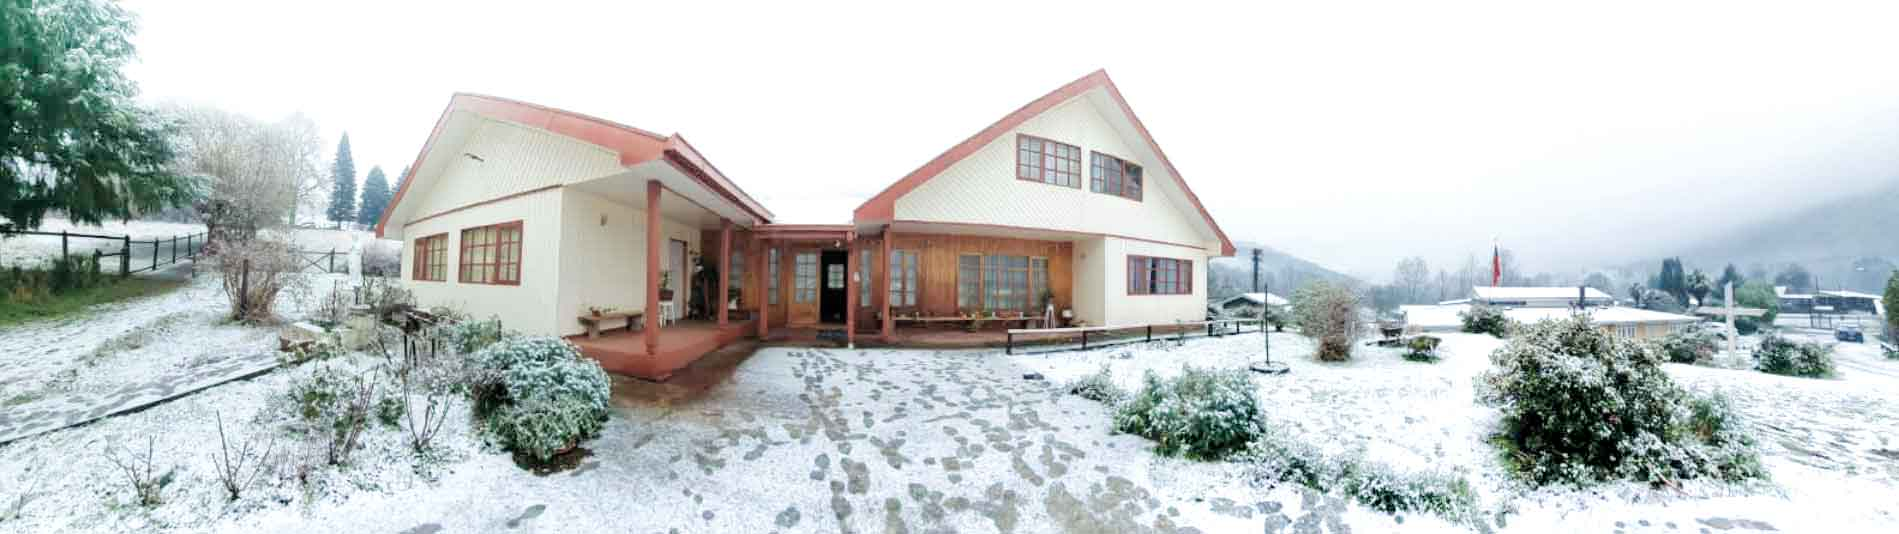
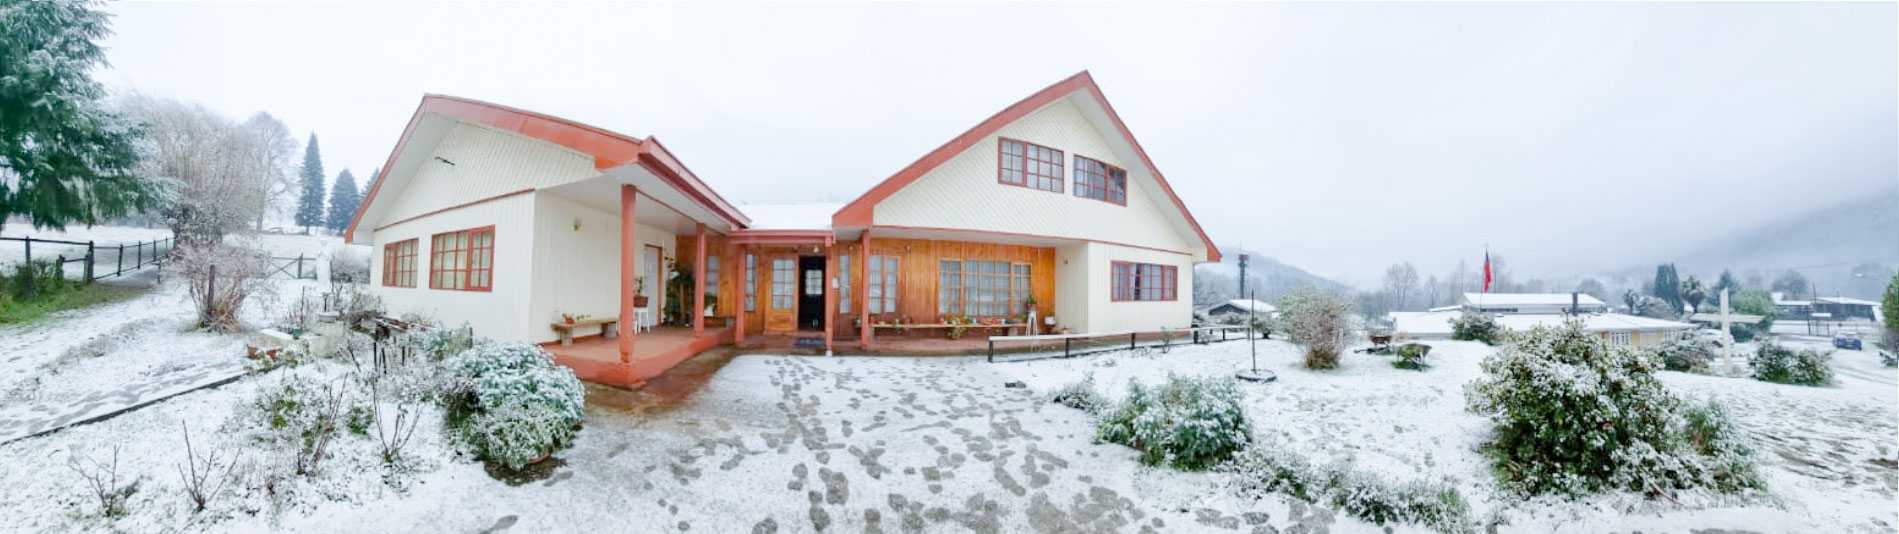
Remover overlay de imagen hero
- Imagen ahora sin texto superpuesto
- Mantiene proporción original a ancho completo
- Cita movida a sección separada debajo de la imagen

🤖 Generated with [Claude Code](https://claude.com/claude-code)

diff --git a/style.css b/style.css
@@ -119,17 +119,12 @@ blockquote {
 
 .hero {
     width: 100%;
-    margin-bottom: 8rem;
+    margin-bottom: 0;
 }
 
 .hero-image {
     width: 100%;
     height: auto;
-    background-color: #e0e0e0;
-    position: relative;
-    display: flex;
-    align-items: center;
-    justify-content: center;
 }
 
 .hero-image img {
@@ -138,15 +133,10 @@ blockquote {
     display: block;
 }
 
-.hero-overlay {
-    position: absolute;
-    top: 50%;
-    left: 50%;
-    transform: translate(-50%, -50%);
-    background-color: rgba(255, 255, 255, 0.9);
-    padding: 4rem 5rem;
-    max-width: 900px;
-    margin: 0 2rem;
+/* Quote Section */
+.quote-section {
+    padding: 8rem 0;
+    background-color: #ffffff;
 }
 
 .hero-quote {
@@ -156,6 +146,8 @@ blockquote {
     color: #000000;
     font-weight: 300;
     font-style: italic;
+    max-width: 900px;
+    margin: 0 auto;
 }
 
 /* ========================================

diff --git a/index.html b/index.html
@@ -24,11 +24,15 @@
     <section class="hero">
         <div class="hero-image">
             <img src="Assets/foto1.jpg" alt="Eremitorio de San José">
-            <div class="hero-overlay">
-                <blockquote class="hero-quote">
-                    "Este desierto es profundamente dulce para mí; es tan dulce y tan sano ponerse en soledad frente a las realidades eternas."
-                </blockquote>
-            </div>
+        </div>
+    </section>
+
+    <!-- Quote Section -->
+    <section class="quote-section">
+        <div class="container">
+            <blockquote class="hero-quote">
+                "Este desierto es profundamente dulce para mí; es tan dulce y tan sano ponerse en soledad frente a las realidades eternas."
+            </blockquote>
         </div>
     </section>
 
